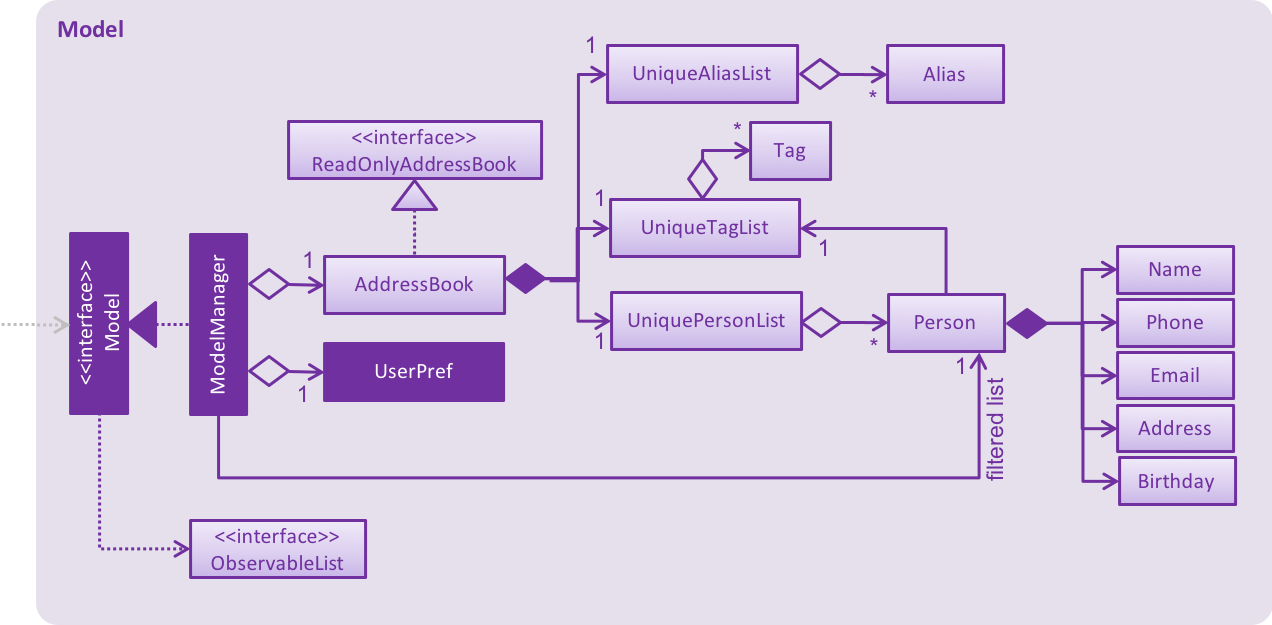
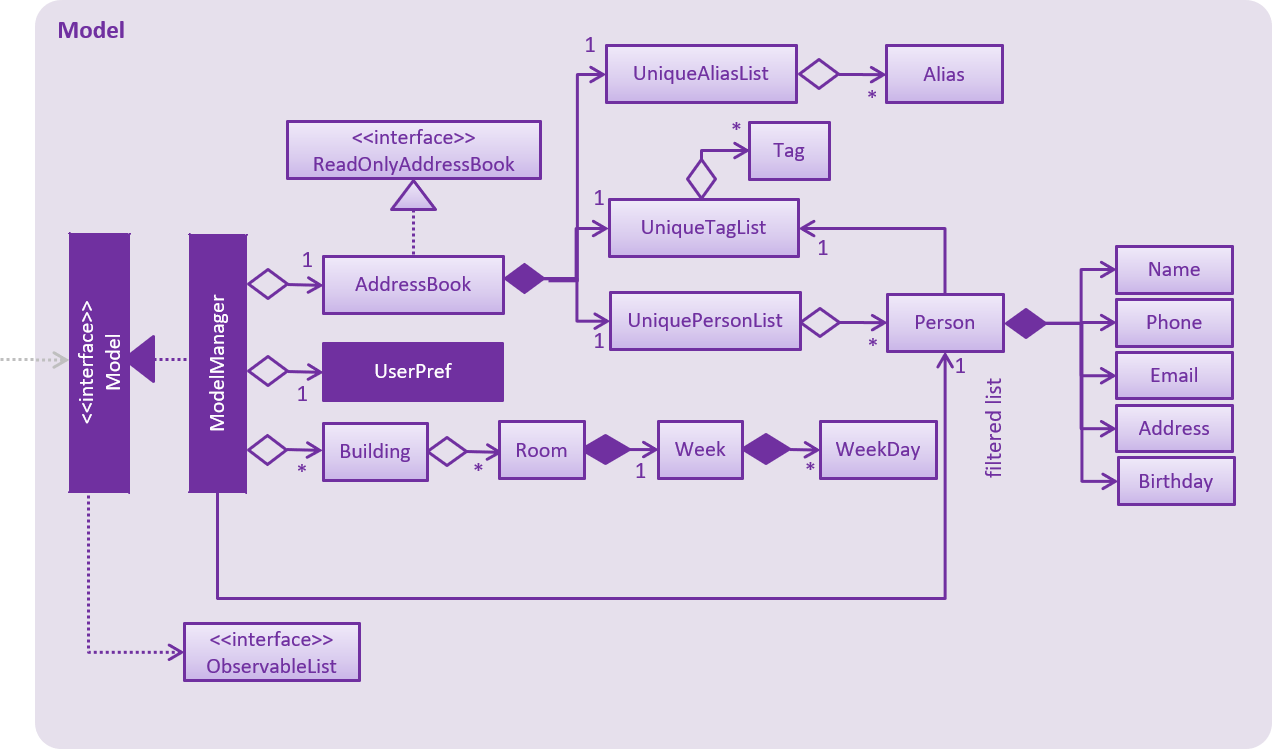
Rebuild pages at 081a1db6a5889eb95e7c68bfd26df9439ae2a693

Changed region(s): [[0.0, 0.0304, 0.9811, 0.9424], [0.0307, 0.0304, 0.1226, 0.0608]]

diff --git a/DeveloperGuide.html b/DeveloperGuide.html
@@ -50,9 +50,10 @@
 <li><a href="#data-encryption">4.3. Data Encryption</a></li>
 <li><a href="#import-addressbook-feature">4.4. Import AddressBook feature</a></li>
 <li><a href="#birthdays-feature">4.5. Birthdays feature</a></li>
-<li><a href="#timetable-feature">4.6. Timetable feature</a></li>
-<li><a href="#logging">4.7. Logging</a></li>
-<li><a href="#Implementation-Configuration">4.8. Configuration</a></li>
+<li><a href="#vacant-room-finder-feature">4.6. Vacant Room Finder feature</a></li>
+<li><a href="#timetable-feature">4.7. Timetable feature</a></li>
+<li><a href="#logging">4.8. Logging</a></li>
+<li><a href="#Implementation-Configuration">4.9. Configuration</a></li>
 </ul>
 </li>
 <li><a href="#documentation">5. Documentation</a>
@@ -1329,9 +1330,88 @@ However, this is still secure as even if a malicious user were to somehow get a 
 </div>
 </div>
 <div class="sect2">
-<h3 id="timetable-feature"><a class="link" href="#timetable-feature">4.6. Timetable feature</a></h3>
+<h3 id="vacant-room-finder-feature"><a class="link" href="#vacant-room-finder-feature">4.6. Vacant Room Finder feature</a></h3>
 <div class="sect3">
 <h4 id="current-implementation-6"><a class="link" href="#current-implementation-6">4.6.1. Current Implementation</a></h4>
+<div class="paragraph">
+<p>We are using Venue Information JSON file from <a href="https://nusmods.com/api/2017-2018/2/venueInformation.json">NUSMods</a> to get the weekly timetable of the venues. To increase the performance of getting the timetable of the venue, we decided to download Venue Information JSON file and have an offline copy stored in our StardyTogether application.</p>
+</div>
+<div class="paragraph">
+<p>We have added the list of NUS buildings and the list of rooms in each building into the offline copy.</p>
+</div>
+<div class="paragraph">
+<p>We use <code>ReadOnlyJsonVenueInformation</code>, which resides inside <code>Storage</code> to read and store the room timetable data inside <code>nusVenues</code> in <code>Room</code> class, and also store NUS Buildings and their respective rooms inside <code>nusBuildingsAndRooms</code> in <code>Building</code> class.</p>
+</div>
+<div class="paragraph">
+<p>To avoid reading the data whenever the <code>vacant</code> command is executed, we only read the data once when the <code>MainApp</code> starts.</p>
+</div>
+<div class="paragraph">
+<p>The following sequence diagram shows how the vacant command is parsed:</p>
+</div>
+<div class="paragraph">
+<p><code>ModelManager</code> will checks if the building is in the list of NUS Buildings, and will throw <code>BuildingNotFoundException</code> if the building is not in the list of NUS Buildings.</p>
+</div>
+<div class="paragraph">
+<p>We have created <code>Building</code>, <code>Room</code>, <code>Week</code>, and <code>WeekDay</code> in <code>Model</code> to read and store all weekday schedule of all NUS Rooms.</p>
+</div>
+<div class="paragraph">
+<p>The following architecture diagram shows the model and storage component:</p>
+</div>
+<div class="imageblock">
+<div class="content">
+<img src="images/ModelClassDiagram.png" alt="ModelClassDiagram" width="800">
+</div>
+</div>
+<div class="imageblock">
+<div class="content">
+<img src="images/StorageClassDiagram.png" alt="StorageClassDiagram" width="800">
+</div>
+</div>
+<div class="paragraph">
+<p>The following sequence diagram shows how the logic component of Vacant Room Finder works:</p>
+</div>
+<div class="paragraph">
+<p>As shown in diagram above, all Rooms weekday schedule will be return in an <code>ArrayList&lt;ArrayList&lt;String&gt;&gt;</code> data structure. This result will be shown to the UI on the <code>InfoPanel</code></p>
+</div>
+<div class="sect4">
+<h5 id="aspect-shows-list-of-vacant-rooms"><a class="link" href="#aspect-shows-list-of-vacant-rooms">Aspect: Shows list of vacant rooms</a></h5>
+<div class="ulist">
+<ul>
+<li>
+<p><strong>Alternative 1 (current choice):</strong> Displays a list of rooms and the weekday schedule from 0800 to 2100</p>
+<div class="ulist">
+<ul>
+<li>
+<p>Pros: User is able to see which rooms are vacant throughout the day</p>
+</li>
+<li>
+<p>Cons: User has to manually find which rooms are vacant at the current time</p>
+</li>
+</ul>
+</div>
+</li>
+<li>
+<p><strong>Alternative 2:</strong> Displays a list of vacant rooms at the current time</p>
+<div class="ulist">
+<ul>
+<li>
+<p>Pros: User is able to see which rooms are vacant at current time immediately</p>
+</li>
+<li>
+<p>Cons: User is not able to see the room schedule for the whole day</p>
+</li>
+</ul>
+</div>
+</li>
+</ul>
+</div>
+</div>
+</div>
+</div>
+<div class="sect2">
+<h3 id="timetable-feature"><a class="link" href="#timetable-feature">4.7. Timetable feature</a></h3>
+<div class="sect3">
+<h4 id="current-implementation-7"><a class="link" href="#current-implementation-7">4.7.1. Current Implementation</a></h4>
 <div class="paragraph">
 <p>When adding a Person using the Add Command, users can enter their NUSMods shortened link into the "tt/" field
 The link goes into the TimetableParserUtil class to parse and retrieve the info of the user&#8217;s modules.
@@ -1348,7 +1428,7 @@ The <code>InfoPanel</code> will swap between <code>BrowsePanel</code>, <code>Bir
 </div>
 </div>
 <div class="sect3">
-<h4 id="design-considerations-6"><a class="link" href="#design-considerations-6">4.6.2. Design Considerations</a></h4>
+<h4 id="design-considerations-6"><a class="link" href="#design-considerations-6">4.7.2. Design Considerations</a></h4>
 <div class="sect4">
 <h5 id="aspect-the-use-of-nusmods-shortened-urls"><a class="link" href="#aspect-the-use-of-nusmods-shortened-urls">Aspect: The use of NUSMods Shortened URLs</a></h5>
 <div class="ulist">
@@ -1565,14 +1645,14 @@ Current implementation is the best in terms of variability and ease of implement
 </div>
 </div>
 <div class="sect2">
-<h3 id="logging"><a class="link" href="#logging">4.7. Logging</a></h3>
+<h3 id="logging"><a class="link" href="#logging">4.8. Logging</a></h3>
 <div class="paragraph">
 <p>We are using <code>java.util.logging</code> package for logging. The <code>LogsCenter</code> class is used to manage the logging levels and logging destinations.</p>
 </div>
 <div class="ulist">
 <ul>
 <li>
-<p>The logging level can be controlled using the <code>logLevel</code> setting in the configuration file (See <a href="#Implementation-Configuration">Section 4.8, &#8220;Configuration&#8221;</a>)</p>
+<p>The logging level can be controlled using the <code>logLevel</code> setting in the configuration file (See <a href="#Implementation-Configuration">Section 4.9, &#8220;Configuration&#8221;</a>)</p>
 </li>
 <li>
 <p>The <code>Logger</code> for a class can be obtained using <code>LogsCenter.getLogger(Class)</code> which will log messages according to the specified logging level</p>
@@ -1603,7 +1683,7 @@ Current implementation is the best in terms of variability and ease of implement
 </div>
 </div>
 <div class="sect2">
-<h3 id="Implementation-Configuration"><a class="link" href="#Implementation-Configuration">4.8. Configuration</a></h3>
+<h3 id="Implementation-Configuration"><a class="link" href="#Implementation-Configuration">4.9. Configuration</a></h3>
 <div class="paragraph">
 <p>Certain properties of the application can be controlled (e.g App name, logging level) through the configuration file (default: <code>config.json</code>).</p>
 </div>
@@ -2455,7 +2535,7 @@ Expected: Application opens with an address book with dummy data.</p>
 </div>
 <div id="footer">
 <div id="footer-text">
-Last updated 2018-04-03 18:18:51 UTC
+Last updated 2018-04-03 19:05:35 UTC
 </div>
 </div>
 </body>

diff --git a/UserGuide.html b/UserGuide.html
@@ -42,8 +42,8 @@
 <li><a href="#deleting-a-person-code-delete-code">3.12. Deleting a person : <code>delete</code></a></li>
 <li><a href="#selecting-a-person-code-select-code">3.13. Selecting a person : <code>select</code></a></li>
 <li><a href="#importing-data-code-import-code-since-v1-1">3.14. Importing data : <code>import</code> (since v1.1)</a></li>
-<li><a href="#exporting-data-code-export-code-coming-in-v1-4">3.15. Exporting data : <code>export</code> (coming in v1.4)</a></li>
-<li><a href="#vacant-study-rooms-finder-code-vacant-code-since-in-v1-3">3.16. Vacant study rooms finder : <code>vacant</code> (since in v1.3)</a></li>
+<li><a href="#exporting-data-code-export-code-since-v1-4">3.15. Exporting data : <code>export</code> (since v1.4)</a></li>
+<li><a href="#vacant-study-rooms-finder-code-vacant-code-since-v1-3">3.16. Vacant study rooms finder : <code>vacant</code> (since v1.3)</a></li>
 <li><a href="#google-maps-display-code-map-code-coming-in-v1-4">3.17. Google maps display : <code>map</code> (coming in v1.4)</a></li>
 <li><a href="#listing-entered-commands-code-history-code">3.18. Listing entered commands : <code>history</code></a></li>
 <li><a href="#undoing-previous-command-code-undo-code">3.19. Undoing previous command : <code>undo</code></a></li>
@@ -560,7 +560,7 @@ Selects the 1st person in the results of the <code>find</code> command.</p>
 <div class="sect2">
 <h3 id="importing-data-code-import-code-since-v1-1"><a class="link" href="#importing-data-code-import-code-since-v1-1">3.14. Importing data : <code>import</code> (since v1.1)</a></h3>
 <div class="paragraph">
-<p>Imports an encrypted StardyTogether instance from filepath to the existing StardyTogether application. Persons, Tags, and Aliases that are not in your StardyTogether will be added.<br>
+<p>Imports an encrypted or unencrypted StardyTogether instance from filepath to the existing StardyTogether application. Persons, Tags, and Aliases that are not in your StardyTogether will be added.<br>
 Format: <code>import FILEPATH PASSWORD</code></p>
 </div>
 <div class="sidebarblock">
@@ -572,6 +572,9 @@ Format: <code>import FILEPATH PASSWORD</code></p>
 </li>
 <li>
 <p>Decrypt that instance using the <code>PASSWORD</code> provided.</p>
+</li>
+<li>
+<p>If no <code>PASSWORD</code> is provided, the instance will be read without decryption.</p>
 </li>
 <li>
 <p>The filepath refers to the filepath where the instance file is stored.</p>
@@ -596,9 +599,9 @@ Imports <code>addressBook.xml</code> file at data folder using "testpassword" as
 </div>
 </div>
 <div class="sect2">
-<h3 id="exporting-data-code-export-code-coming-in-v1-4"><a class="link" href="#exporting-data-code-export-code-coming-in-v1-4">3.15. Exporting data : <code>export</code> (coming in v1.4)</a></h3>
+<h3 id="exporting-data-code-export-code-since-v1-4"><a class="link" href="#exporting-data-code-export-code-since-v1-4">3.15. Exporting data : <code>export</code> (since v1.4)</a></h3>
 <div class="paragraph">
-<p>Exports the current list of the existing StardyTogether application with password encryption to the specified filepath
+<p>Exports the current view of the existing StardyTogether application with or without password encryption to the specified filepath
 Format: <code>export FILEPATH PASSWORD</code></p>
 </div>
 <div class="sidebarblock">
@@ -610,6 +613,9 @@ Format: <code>export FILEPATH PASSWORD</code></p>
 </li>
 <li>
 <p>Encrypt that instance using the <code>PASSWORD</code> provided.</p>
+</li>
+<li>
+<p>If no <code>PASSWORD</code> is provided, the instance will be exported without encryption.</p>
 </li>
 <li>
 <p>The filepath refers to the filepath where the instance file will be stored.</p>
@@ -631,7 +637,7 @@ Exports the current list of StardyTogether application to the <code>addressBook.
 </div>
 </div>
 <div class="sect2">
-<h3 id="vacant-study-rooms-finder-code-vacant-code-since-in-v1-3"><a class="link" href="#vacant-study-rooms-finder-code-vacant-code-since-in-v1-3">3.16. Vacant study rooms finder : <code>vacant</code> (since in v1.3)</a></h3>
+<h3 id="vacant-study-rooms-finder-code-vacant-code-since-v1-3"><a class="link" href="#vacant-study-rooms-finder-code-vacant-code-since-v1-3">3.16. Vacant study rooms finder : <code>vacant</code> (since v1.3)</a></h3>
 <div class="paragraph">
 <p>Displays a list of rooms in the specified building and whether each room is vacant or not, in blocks of 1 hours.<br>
 Format: <code>vacant BUILDING</code></p>
@@ -968,7 +974,7 @@ e.g.<code>import data/addressBook.xml testpassword</code></p>
 </li>
 <li>
 <p><strong>Export</strong> : <code>Export FILEPATH PASSWORD</code><br>
-e.g.<code>Export data/addressBook.xml testpassword</code></p>
+e.g.<code>export data/addressBook.xml testpassword</code></p>
 </li>
 <li>
 <p><strong>List</strong> : <code>list</code></p>
@@ -1009,7 +1015,7 @@ e.g. <code>vacant COM1</code></p>
 </div>
 <div id="footer">
 <div id="footer-text">
-Last updated 2018-04-03 18:18:51 UTC
+Last updated 2018-04-03 19:05:35 UTC
 </div>
 </div>
 </body>

diff --git a/LearningOutcomes.html b/LearningOutcomes.html
@@ -561,7 +561,7 @@ class gives some examples of how to use <em>Equivalence Partitions</em>, <em>Bou
 </div>
 <div id="footer">
 <div id="footer-text">
-Last updated 2018-04-03 18:18:51 UTC
+Last updated 2018-04-03 19:05:35 UTC
 </div>
 </div>
 </body>

diff --git a/UsingCoveralls.html b/UsingCoveralls.html
@@ -115,7 +115,7 @@ If you have not set up Travis CI, see <a href="UsingTravis.html">UsingTravis.ado
 </div>
 <div id="footer">
 <div id="footer-text">
-Last updated 2018-04-03 18:18:51 UTC
+Last updated 2018-04-03 19:05:35 UTC
 </div>
 </div>
 </body>

diff --git a/UsingGradle.html b/UsingGradle.html
@@ -261,7 +261,7 @@ See <code>build.gradle</code> &#8594; <code>allprojects</code> &#8594; <code>dep
 </div>
 <div id="footer">
 <div id="footer-text">
-Last updated 2018-04-03 18:18:51 UTC
+Last updated 2018-04-03 19:05:35 UTC
 </div>
 </div>
 </body>

diff --git a/UsingNetlify.html b/UsingNetlify.html
@@ -142,7 +142,7 @@ The publish directory is the directory in which the built HTML documentation res
 </div>
 <div id="footer">
 <div id="footer-text">
-Last updated 2018-04-03 18:18:51 UTC
+Last updated 2018-04-03 19:05:35 UTC
 </div>
 </div>
 </body>

diff --git a/team/johndoe.html b/team/johndoe.html
@@ -695,7 +695,7 @@ This is because keys generated by <code>java.crypto.KeyGenerator</code> have the
 </div>
 <div id="footer">
 <div id="footer-text">
-Last updated 2018-04-03 18:18:51 UTC
+Last updated 2018-04-03 19:05:35 UTC
 </div>
 </div>
 </body>

diff --git a/UsingTravis.html b/UsingTravis.html
@@ -299,7 +299,7 @@ Suggested change: Remove the codacy badge from <code>README</code>.</p>
 </div>
 <div id="footer">
 <div id="footer-text">
-Last updated 2018-04-03 18:18:51 UTC
+Last updated 2018-04-03 19:05:35 UTC
 </div>
 </div>
 </body>

diff --git a/UsingCheckstyle.html b/UsingCheckstyle.html
@@ -103,7 +103,7 @@ Restart the IDE to complete the installation.</p>
 </div>
 <div id="footer">
 <div id="footer-text">
-Last updated 2018-04-03 18:18:51 UTC
+Last updated 2018-04-03 19:05:35 UTC
 </div>
 </div>
 </body>

diff --git a/TestDocument.html b/TestDocument.html
@@ -178,7 +178,7 @@ This should be on a new line.</p>
 </div>
 <div id="footer">
 <div id="footer-text">
-Last updated 2018-04-03 18:18:51 UTC
+Last updated 2018-04-03 19:05:35 UTC
 </div>
 </div>
 </body>

diff --git a/AboutUs.html b/AboutUs.html
@@ -110,7 +110,7 @@ Responsibilities: UI</p>
 </div>
 <div id="footer">
 <div id="footer-text">
-Last updated 2018-04-03 18:18:51 UTC
+Last updated 2018-04-03 19:05:35 UTC
 </div>
 </div>
 </body>

diff --git a/UsingAppVeyor.html b/UsingAppVeyor.html
@@ -174,7 +174,7 @@ grant access:</p>
 </div>
 <div id="footer">
 <div id="footer-text">
-Last updated 2018-04-03 18:18:51 UTC
+Last updated 2018-04-03 19:05:35 UTC
 </div>
 </div>
 </body>
